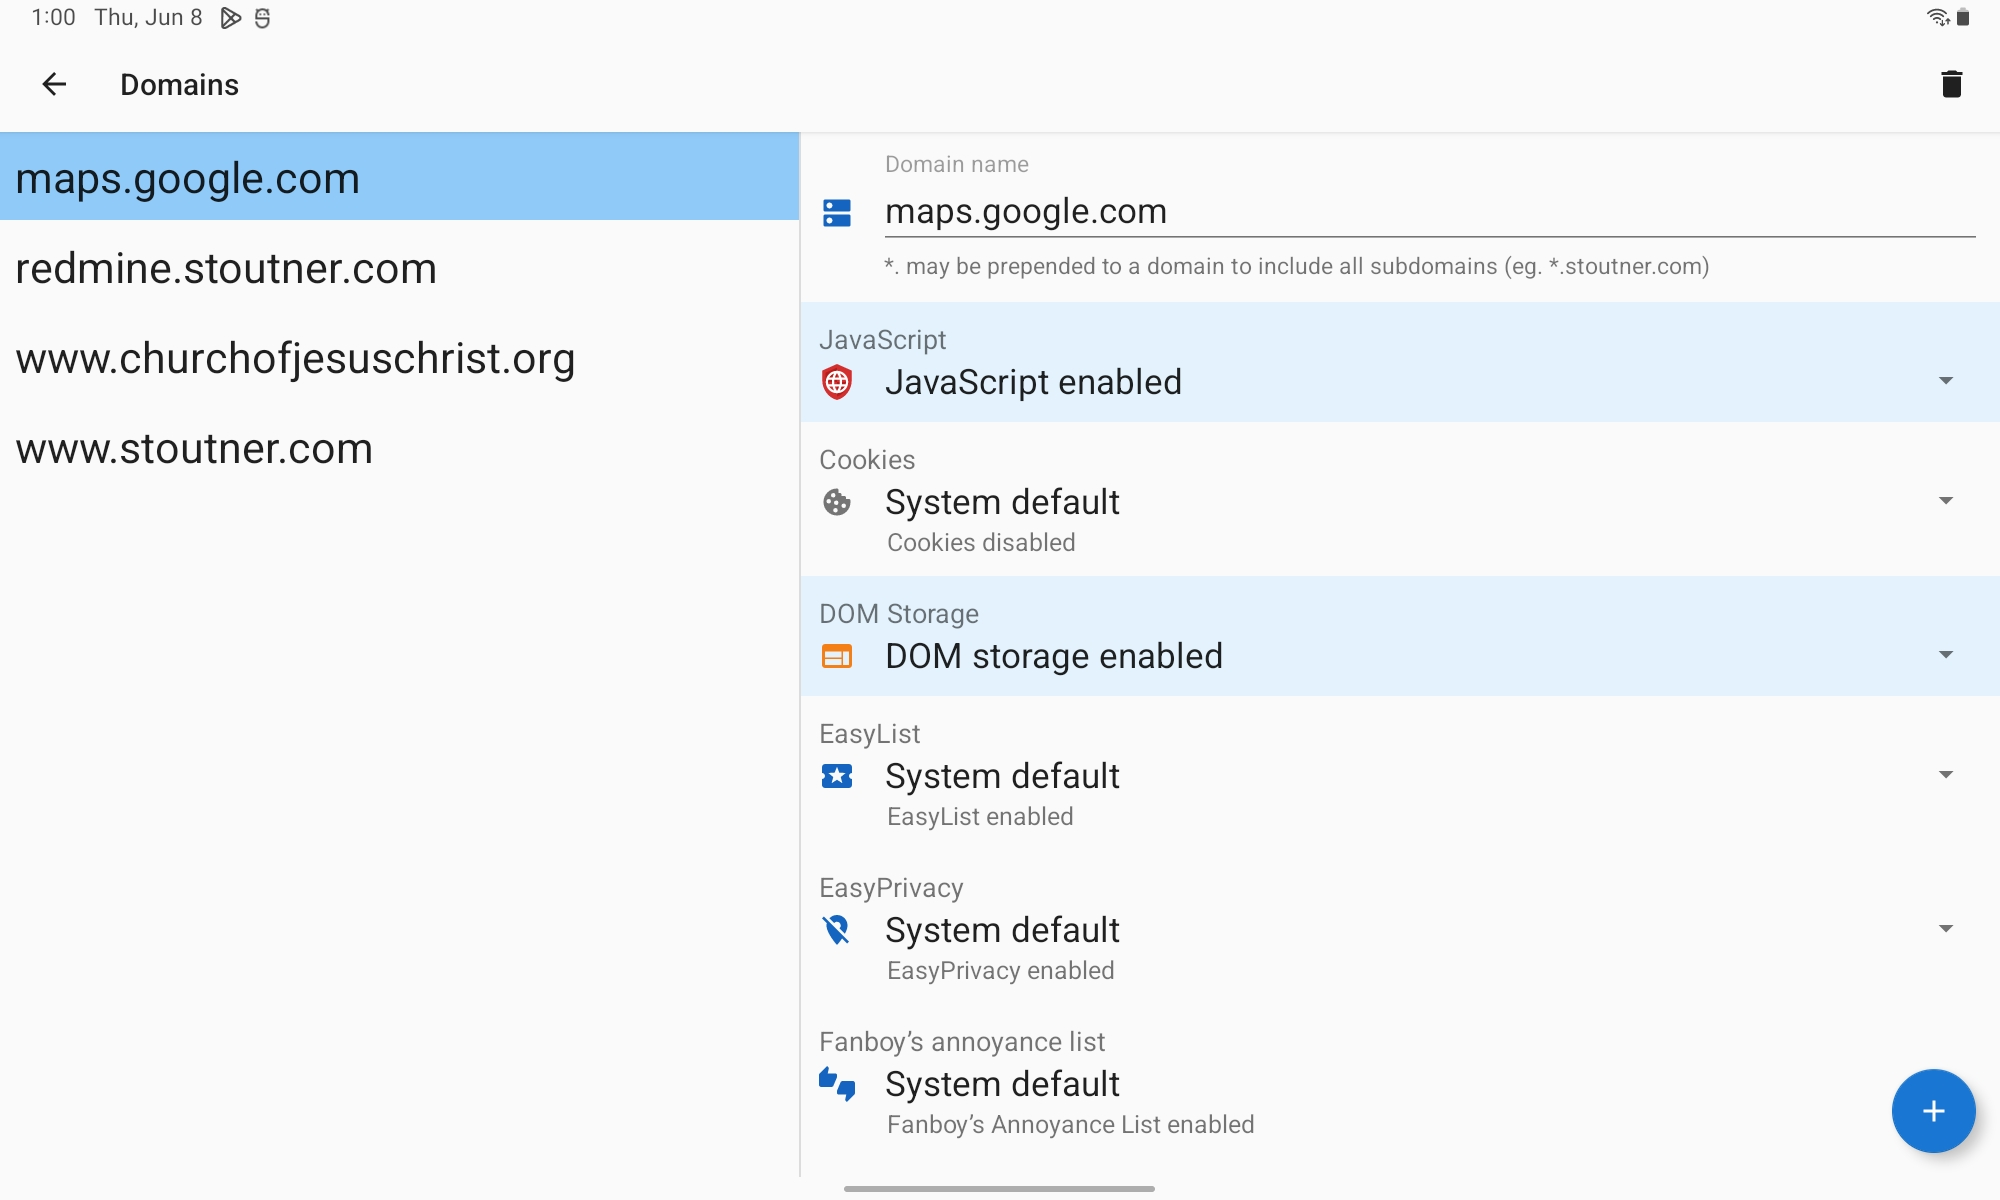
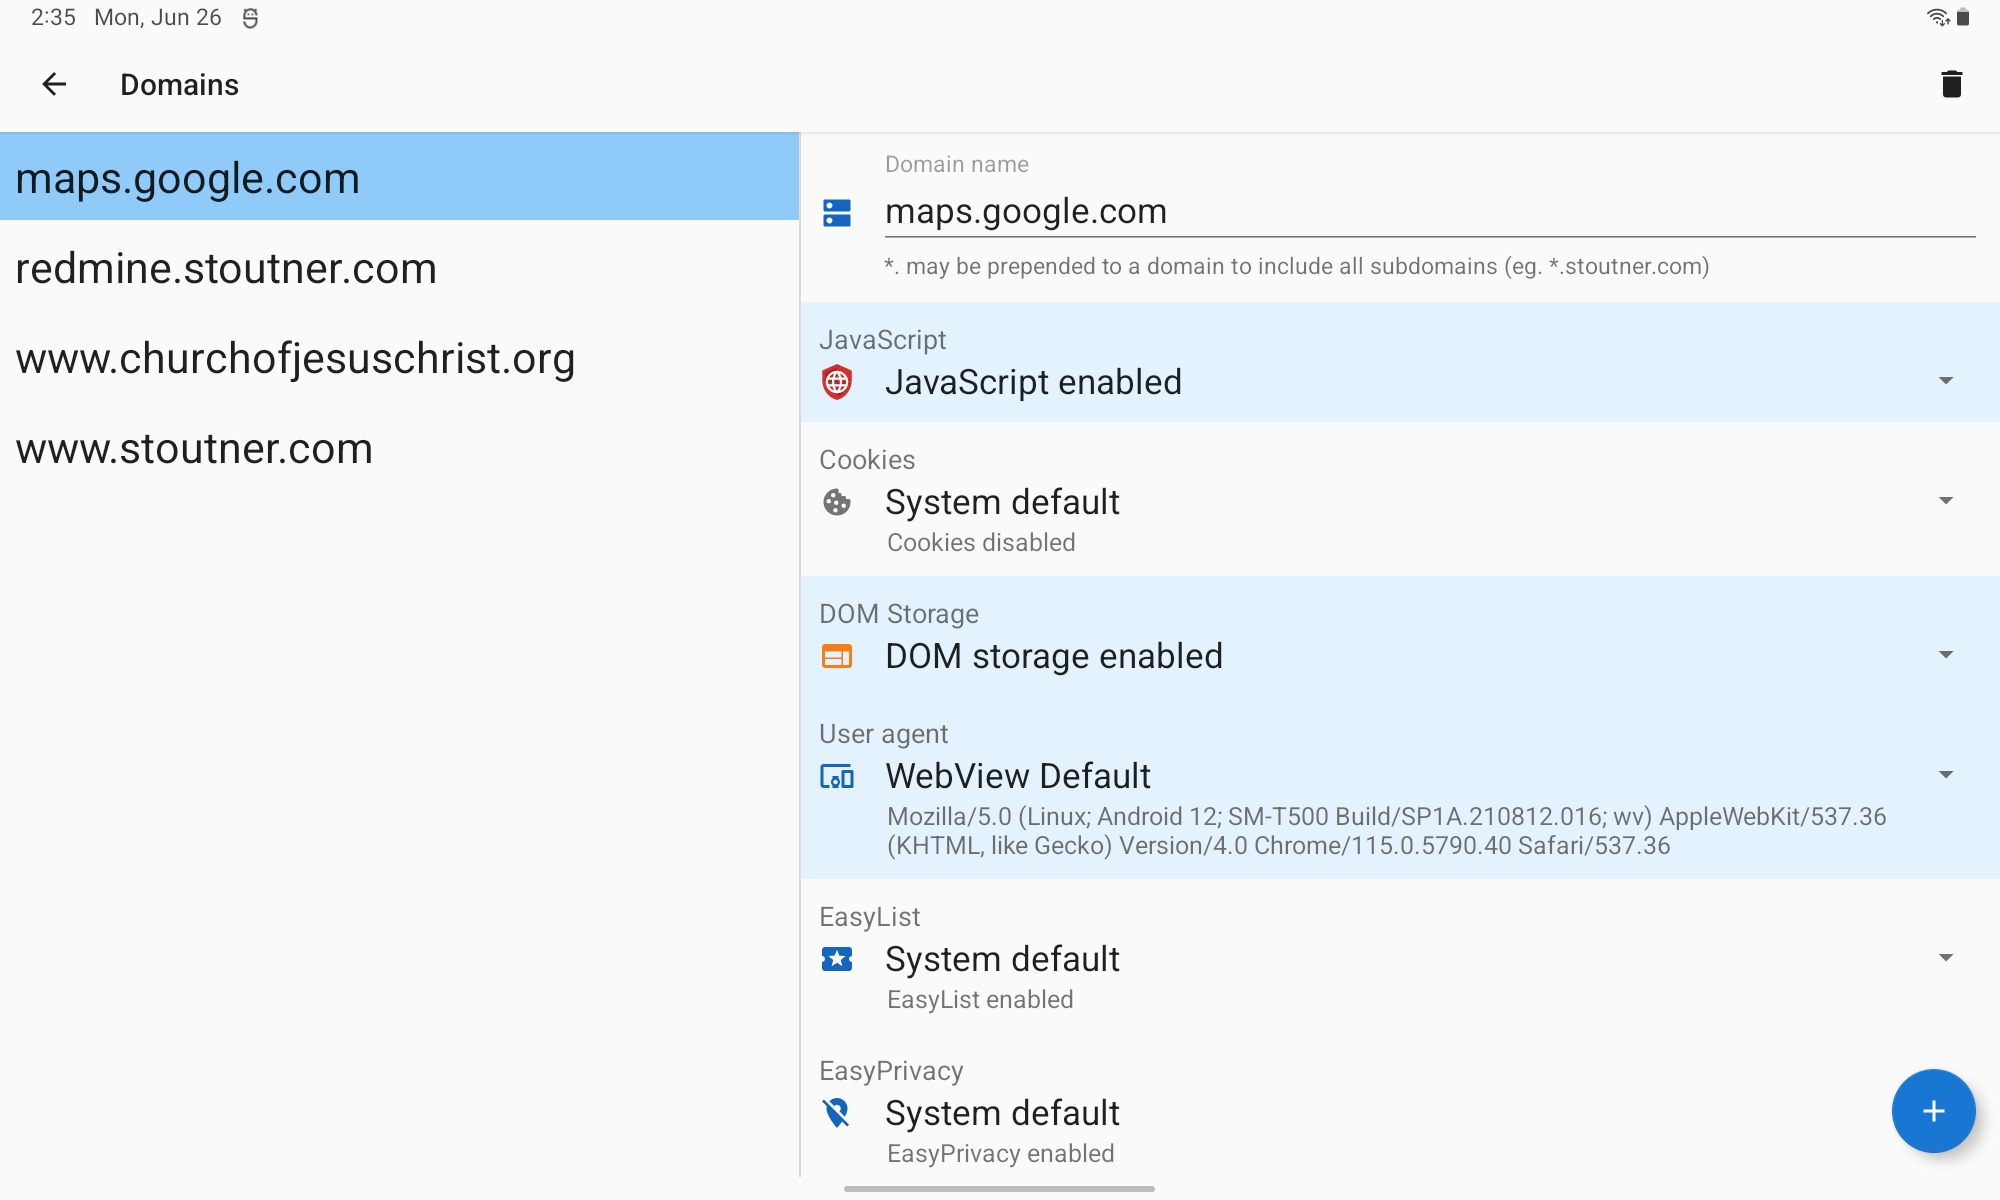
Release 3.15.1.

Changed region(s): [[0.403, 0.5858, 0.93, 0.9867], [0.031, 0.0, 0.155, 0.0308]]

diff --git a/app/src/main/assets/fr/about_changelog.html b/app/src/main/assets/fr/about_changelog.html
@@ -32,38 +32,39 @@
         <h3>3.15.1 (version du code 71)</h3>
         <p>26 Juin 2023 - API minimale : 24, API optimale : 33</p>
         <ul>
-            <li>Fix a crash when moving a bookmark <a href="https://redmine.stoutner.com/issues/1028">to the home folder</a>.</li>
-            <li>Take advantage of WebView’s secret, undocumented <a href="https://redmine.stoutner.com/issues/1023">View Source functionality</a>.</li>
-            <li>Move <a href="https://redmine.stoutner.com/issues/1011">User Agent below DOM Storage</a> in the domain settings list.</li>
-            <li>Create a <a href="https://redmine.stoutner.com/issues/672">special encryption dialog</a> for Content URLs.</li>
-            <li>Fix a crash if Privacy Browser is restarted while the <a href="https://redmine.stoutner.com/issues/693">SSL certificate error dialog</a> is displayed.</li>
-            <li>Fix a delay if Privacy Browser is restarted while the <a href="https://redmine.stoutner.com/issues/692">HTTP authentication dialog</a> is displayed.</li>
+            <li>Correction d'un crash lors du déplacement de favoris <a href="https://redmine.stoutner.com/issues/1028">vers le dossier personnel</a>.</li>
+            <li>Les fonctionnalités secrètes et non documentées de WebView, telles que <a href="https://redmine.stoutner.com/issues/1023">View Source</a>, sont mises à profit.</li>
+            <li>Correction des paramètres de domaine qui sont parfois créés en tant que <a href="https://redmine.stoutner.com/issues/1032">"Activés" au lieu de la "Valeur par défaut du système"</a>.</li>
+            <li>Déplacement <a href="https://redmine.stoutner.com/issues/1011">du User Agent en dessous du Stockage du DOM </a> dans la liste des paramètres de domaine.</li>
+            <li>Création d'un <a href="https://redmine.stoutner.com/issues/672">message spécial de chiffrement </a> pour les URLs de contenu.</li>
+            <li>Correction d'un crash si Privacy Browser est redémarré alors que la <a href="https://redmine.stoutner.com/issues/693">boîte de dialogue d'erreur de certificat SSL</a> est affichée.</li>
+            <li>Correction d'un délai si Privacy Browser est redémarré alors que la <a href="https://redmine.stoutner.com/issues/692">boîte de dialogue d'authentification HTTP</a> est affichée.</li>
             <li>Traduction française mise à jour fournie par <a href="mailto:kevinliste@framalistes.org">Kévin L</a>.</li>
         </ul>
 
         <h3><a href="https://www.stoutner.com/privacy-browser-android-3-15/">3.15</a> (version du code 70)</h3>
         <p><a href="https://gitweb.stoutner.com/?p=PrivacyBrowserAndroid.git;a=commitdiff;h=a424c7a4dd110995277c9f4753fecb21a4a4991a">12 Juin 2023</a> - API minimale : 24, API optimale : 33</p>
         <ul>
-            <li>Reenable the <a href="https://redmine.stoutner.com/issues/1012">dark WebView theme</a> on Android 7-9 (API 24-28).</li>
-            <li>Add a <a href="https://redmine.stoutner.com/issues/782">cancel action</a> to the Save URL snackbar.</li>
-            <li>Change the domain settings switches to <a href="https://redmine.stoutner.com/issues/407">drop down lists</a> that include "system default".</li>
-            <li>Allow <a href="https://redmine.stoutner.com/issues/199">duplicate bookmark folder names</a>.</li>
-            <li>Fix a crash if Privacy Browser is restarted while the <a href="https://redmine.stoutner.com/issues/655">pinned mismatch dialog</a> is displayed.</li>
-            <li>Modernize the <a href="https://redmine.stoutner.com/issues/587">WebView pager adapter</a> code.</li>
+            <li>Réactivation du <a href="https://redmine.stoutner.com/issues/1012">thème sombre WebView</a> sur Android 7-9 (API 24-28).</li>
+            <li>Ajout d'une <a href="https://redmine.stoutner.com/issues/782">action d'annulation</a> dans la vue de sauvegarde d'URL.</li>
+            <li>Modification des paramètres du domaine en <a href="https://redmine.stoutner.com/issues/407">listes déroulantes</a> comprenant "Valeur Système".</li>
+            <li>Permission de <a href="https://redmine.stoutner.com/issues/199">dupliquer les noms de répertoires de favoris</a>.</li>
+            <li>Correction d'un crash si Privacy Browser est redémarré alors que la boîte de dialogue <a href="https://redmine.stoutner.com/issues/655">d'épingler un domaine</a> est affichée.</li>
+            <li>Modernisation du code <a href="https://redmine.stoutner.com/issues/587">d'adaptation de pagination de WebView</a>.</li>
             <li>Traduction française mise à jour fournie par <a href="mailto:kevinliste@framalistes.org">Kévin L</a>.</li>
         </ul>
 
         <h3><a href="https://www.stoutner.com/privacy-browser-android-3-14/">3.14</a> (version du code 69)</h3>
         <p><a href="https://gitweb.stoutner.com/?p=PrivacyBrowserAndroid.git;a=commitdiff;h=6d4644db8bed024d0f4d4cfb7cc8d1dcef3789fe">6 Mai 2023</a> - API minimale : 24, API optimale : 33</p>
         <ul>
-            <li>Highlight the background of domain settings that are <a href="https://redmine.stoutner.com/issues/886">not default</a>.</li>
-            <li>Remove the terms <a href="https://redmine.stoutner.com/issues/705"><code>whitelist</code> and <code>blacklist</code></a> from the project.</li>
-            <li>Standardize the <a href="https://redmine.stoutner.com/issues/951">suggested file names</a>.</li>
-            <li>Update the app bar <a href="https://redmine.stoutner.com/issues/998">proxy background color</a>.</li>
-            <li><a href="https://redmine.stoutner.com/issues/700">Restore the scroll position</a> when restarting the settings app.</li>
-            <li>Migrate the last of the code to <a href="https://redmine.stoutner.com/issues/989">Kotlin</a> and remove the deprecated <a href="https://redmine.stoutner.com/issues/987">AsyncTasks</a>.</li>
-            <li>Optimize <a href="https://redmine.stoutner.com/issues/990">several</a> <a href="https://redmine.stoutner.com/issues/991">pieces</a> of the
-                <a href="https://redmine.stoutner.com/issues/953">code</a> to run more efficiently.</li>
+            <li>Mise en évidence de l'arrière-plan des réglages du domaine qui sont <a href="https://redmine.stoutner.com/issues/886">non par défaut</a>.</li>
+            <li>Suppression des termes <a href="https://redmine.stoutner.com/issues/705"><code>liste blanche</code> et <code>liste noire</code></a> du projet.</li>
+            <li>Standardisation du <a href="https://redmine.stoutner.com/issues/951">nom suggéré des fichiers</a>.</li>
+            <li>Mise à jour de la couleur d'arrière plan <a href="https://redmine.stoutner.com/issues/998">de la barre de l'app avec proxy</a>.</li>
+            <li><a href="https://redmine.stoutner.com/issues/700">Restauration de la position de défilement</a> lors du redémarrage de l'application Paramètres.</li>
+            <li>Migration du restant du code vers <a href="https://redmine.stoutner.com/issues/989">Kotlin</a> et suppression de <a href="https://redmine.stoutner.com/issues/987">AsyncTasks</a>.</li>
+            <li>Optimisation de <a href="https://redmine.stoutner.com/issues/990">plusieurs</a> <a href="https://redmine.stoutner.com/issues/991">parties</a> du
+                <a href="https://redmine.stoutner.com/issues/953">code</a> pour plus d'efficacité.</li>
             <li>Traduction française mise à jour fournie par <a href="mailto:kevinliste@framalistes.org">Kévin L</a>.</li>
         </ul>
 

diff --git a/app/src/main/assets/ru/about_changelog.html b/app/src/main/assets/ru/about_changelog.html
@@ -32,6 +32,7 @@
         <ul>
             <li>Исправлен сбой, возникавший при перемещении закладки <a href="https://redmine.stoutner.com/issues/1028">в домашнюю папку</a>.</li>
             <li>Добавлена секретная недокументированная возможность <a href="https://redmine.stoutner.com/issues/1023">просмотра кода в WebView</a>.</li>
+            <li>Исправлена проблема настроек домена, при которой <a href="https://redmine.stoutner.com/issues/1032">домены иногда создавались со включенными параметрами, вместо параметров по умолчанию</a>.</li>
             <li>User Agent в настройках домена <a href="https://redmine.stoutner.com/issues/1011">перемещен ниже DOM-хранилища</a>.</li>
             <li>Создан <a href="https://redmine.stoutner.com/issues/672">специальный диалог шифрования</a> для контентных URL.</li>
             <li>Исправлен сбой при котором Privacy Browser перезапускался во время отображения <a href="https://redmine.stoutner.com/issues/693">диалога об ошибке SSL-сертификата</a>.</li>

diff --git a/app/src/main/assets/de/about_changelog.html b/app/src/main/assets/de/about_changelog.html
@@ -38,6 +38,7 @@
         <ul>
             <li>Problem mit Abstürzen korrigiert, wenn Lesezeichen <a href="https://redmine.stoutner.com/issues/1028">in den Hauptordner verschoben wurden</a>.</li>
             <li>Geheime, undokumentierte WebView-Funktion <a href="https://redmine.stoutner.com/issues/1023">zum Anzeigen des Quellcodes</a> wird nun genutzt.</li>
+            <li>Fehler behoben, durch den Domain-Einstellungen manchmal als <a href="https://redmine.stoutner.com/issues/1032">Aktiviert statt System-Voreinstellung</a> angelegt wurden.</li>
             <li><a href="https://redmine.stoutner.com/issues/1011">User-Agent unter DOM-Speicher</a> in der Liste der Domain-Einstellungen verschoben.</li>
             <li><a href="https://redmine.stoutner.com/issues/672">Speziellen Verschlüsselungs-Dialog</a> für Content-URLs erstellt.</li>
             <li>Problem mit Abstürzen behoben, wenn Privacy Browser neu gestartet wurde, während ein <a href="https://redmine.stoutner.com/issues/693">SSL-Zertifikats-Fehler-Dialog</a> angezeigt wurde.</li>

diff --git a/app/src/main/assets/es/about_changelog.html b/app/src/main/assets/es/about_changelog.html
@@ -34,6 +34,7 @@
         <ul>
             <li>Corregir un fallo al mover un marcador <a href="https://redmine.stoutner.com/issues/1028">a la carpeta de inicio</a>.</li>
             <li>Aprovechar la funcionalidad secreta e indocumentada de Webview: <a href="https://redmine.stoutner.com/issues/1023">Ver Fuente</a>.</li>
+            <li>Arreglar la Configuración de Dominio que a veces se crea como <a href="https://redmine.stoutner.com/issues/1032">Habilitada en vez de Predeterminada del sistema</a>.</li>
             <li>Mover <a href="https://redmine.stoutner.com/issues/1011">el Agente de Usuario debajo de Almacenamiento DOM</a> en la lista de configuración de dominio.</li>
             <li>Crear un <a href="https://redmine.stoutner.com/issues/672">diálogo especial de cifrado</a> para las URLs de contenido.</li>
             <li>Corregir un fallo si Navegador Privado se reinicia mientras <a href="https://redmine.stoutner.com/issues/693">el diálogo de error de certificado SSL</a> es mostrado.</li>

diff --git a/app/src/main/assets/it/about_changelog.html b/app/src/main/assets/it/about_changelog.html
@@ -34,6 +34,7 @@
         <ul>
             <li>Sistemazione di un crash che avveniva muovendo un segnalibro <a href="https://redmine.stoutner.com/issues/1028">nella cartella principale</a>.</li>
             <li>Utilizzo della segreta e non documentata <a href="https://redmine.stoutner.com/issues/1023">funzionalità di visione della sorgente</a> di WebView.</li>
+            <li>Fix Domain Settings sometimes being created as <a href="https://redmine.stoutner.com/issues/1032">Enabled instead of System Default</a>.</li>
             <li>Spostamento dello <a href="https://redmine.stoutner.com/issues/1011">User Agent al di sotto del DOM Storage</a> nell'elenco delle impostazioni dei domini.</li>
             <li>Creazione di una <a href="https://redmine.stoutner.com/issues/672">speciale finestra di dialogo di cifratura</a> per gli URL di contenuto.</li>
             <li>Sistemazione di un crash che avveniva quando Privacy Browser era riavviato mentre era visualizzata

diff --git a/app/src/main/assets/en/about_changelog.html b/app/src/main/assets/en/about_changelog.html
@@ -32,6 +32,7 @@
         <ul>
             <li>Fix a crash when moving a bookmark <a href="https://redmine.stoutner.com/issues/1028">to the home folder</a>.</li>
             <li>Take advantage of WebView’s secret, undocumented <a href="https://redmine.stoutner.com/issues/1023">View Source functionality</a>.</li>
+            <li>Fix Domain Settings sometimes being created as <a href="https://redmine.stoutner.com/issues/1032">Enabled instead of System Default</a>.</li>
             <li>Move <a href="https://redmine.stoutner.com/issues/1011">User Agent below DOM Storage</a> in the domain settings list.</li>
             <li>Create a <a href="https://redmine.stoutner.com/issues/672">special encryption dialog</a> for Content URLs.</li>
             <li>Fix a crash if Privacy Browser is restarted while the <a href="https://redmine.stoutner.com/issues/693">SSL certificate error dialog</a> is displayed.</li>

diff --git a/app/src/main/assets/pt-rBR/about_changelog.html b/app/src/main/assets/pt-rBR/about_changelog.html
@@ -34,6 +34,7 @@
         <ul>
             <li>Fix a crash when moving a bookmark <a href="https://redmine.stoutner.com/issues/1028">to the home folder</a>.</li>
             <li>Take advantage of WebView’s secret, undocumented <a href="https://redmine.stoutner.com/issues/1023">View Source functionality</a>.</li>
+            <li>Fix Domain Settings sometimes being created as <a href="https://redmine.stoutner.com/issues/1032">Enabled instead of System Default</a>.</li>
             <li>Move <a href="https://redmine.stoutner.com/issues/1011">User Agent below DOM Storage</a> in the domain settings list.</li>
             <li>Create a <a href="https://redmine.stoutner.com/issues/672">special encryption dialog</a> for Content URLs.</li>
             <li>Fix a crash if Privacy Browser is restarted while the <a href="https://redmine.stoutner.com/issues/693">SSL certificate error dialog</a> is displayed.</li>

diff --git a/app/src/main/assets/tr/about_changelog.html b/app/src/main/assets/tr/about_changelog.html
@@ -32,6 +32,7 @@
         <ul>
             <li>Fix a crash when moving a bookmark <a href="https://redmine.stoutner.com/issues/1028">to the home folder</a>.</li>
             <li>Take advantage of WebView’s secret, undocumented <a href="https://redmine.stoutner.com/issues/1023">View Source functionality</a>.</li>
+            <li>Fix Domain Settings sometimes being created as <a href="https://redmine.stoutner.com/issues/1032">Enabled instead of System Default</a>.</li>
             <li>Move <a href="https://redmine.stoutner.com/issues/1011">User Agent below DOM Storage</a> in the domain settings list.</li>
             <li>Create a <a href="https://redmine.stoutner.com/issues/672">special encryption dialog</a> for Content URLs.</li>
             <li>Fix a crash if Privacy Browser is restarted while the <a href="https://redmine.stoutner.com/issues/693">SSL certificate error dialog</a> is displayed.</li>

diff --git a/app/src/main/assets/zh-rCN/about_changelog.html b/app/src/main/assets/zh-rCN/about_changelog.html
@@ -34,6 +34,7 @@
         <ul>
             <li>Fix a crash when moving a bookmark <a href="https://redmine.stoutner.com/issues/1028">to the home folder</a>.</li>
             <li>Take advantage of WebView’s secret, undocumented <a href="https://redmine.stoutner.com/issues/1023">View Source functionality</a>.</li>
+            <li>Fix Domain Settings sometimes being created as <a href="https://redmine.stoutner.com/issues/1032">Enabled instead of System Default</a>.</li>
             <li>Move <a href="https://redmine.stoutner.com/issues/1011">User Agent below DOM Storage</a> in the domain settings list.</li>
             <li>Create a <a href="https://redmine.stoutner.com/issues/672">special encryption dialog</a> for Content URLs.</li>
             <li>Fix a crash if Privacy Browser is restarted while the <a href="https://redmine.stoutner.com/issues/693">SSL certificate error dialog</a> is displayed.</li>
